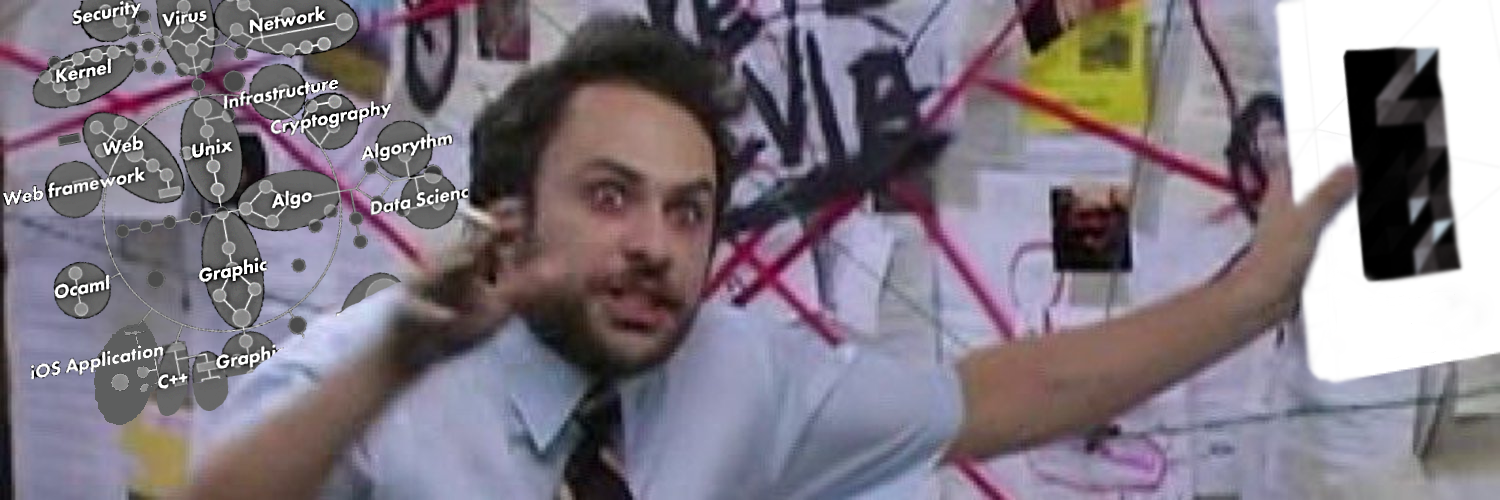
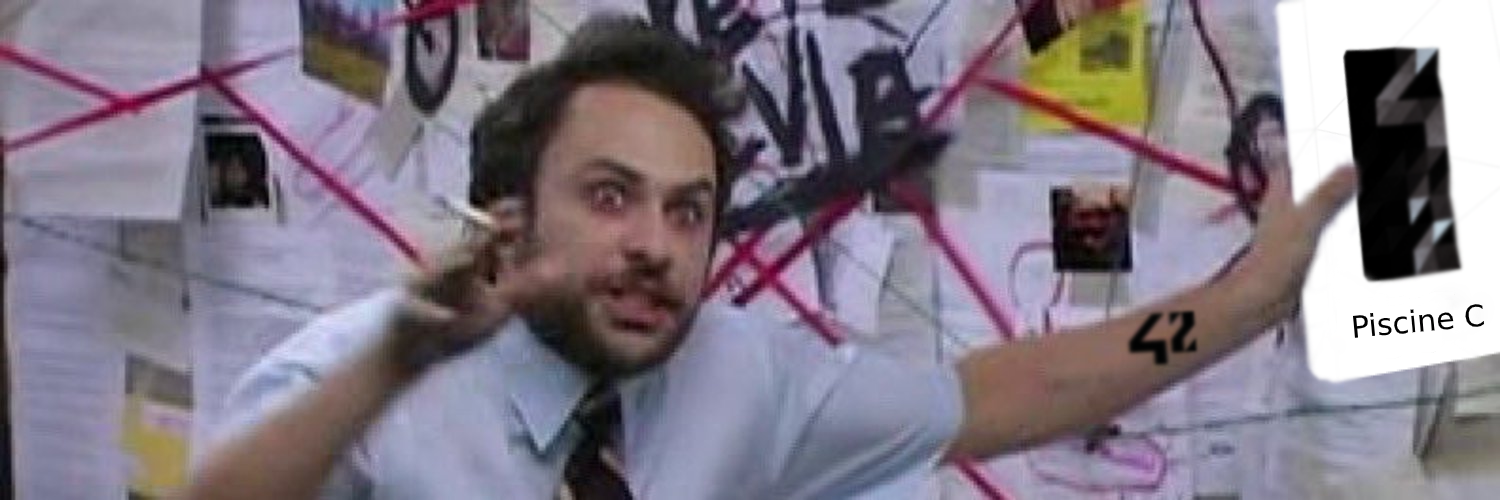
03:01/24/08/2020

diff --git a/README.md b/README.md
@@ -1,6 +1,6 @@
 # Completed Tasks of the Piscine C
 
-![Piscine_C](https://github.com/evgenkarlson/Completed___Piscine_C___of___School_42/blob/master/.vscode/05.png)
+![Piscine_C](https://github.com/evgenkarlson/Completed___Piscine_C___of___School_42/blob/master/.vscode/03.png)
 
  • Этот репозиторий содержит множество версий выполненных задач на каждый день самого первого басейна по Си. 
 
